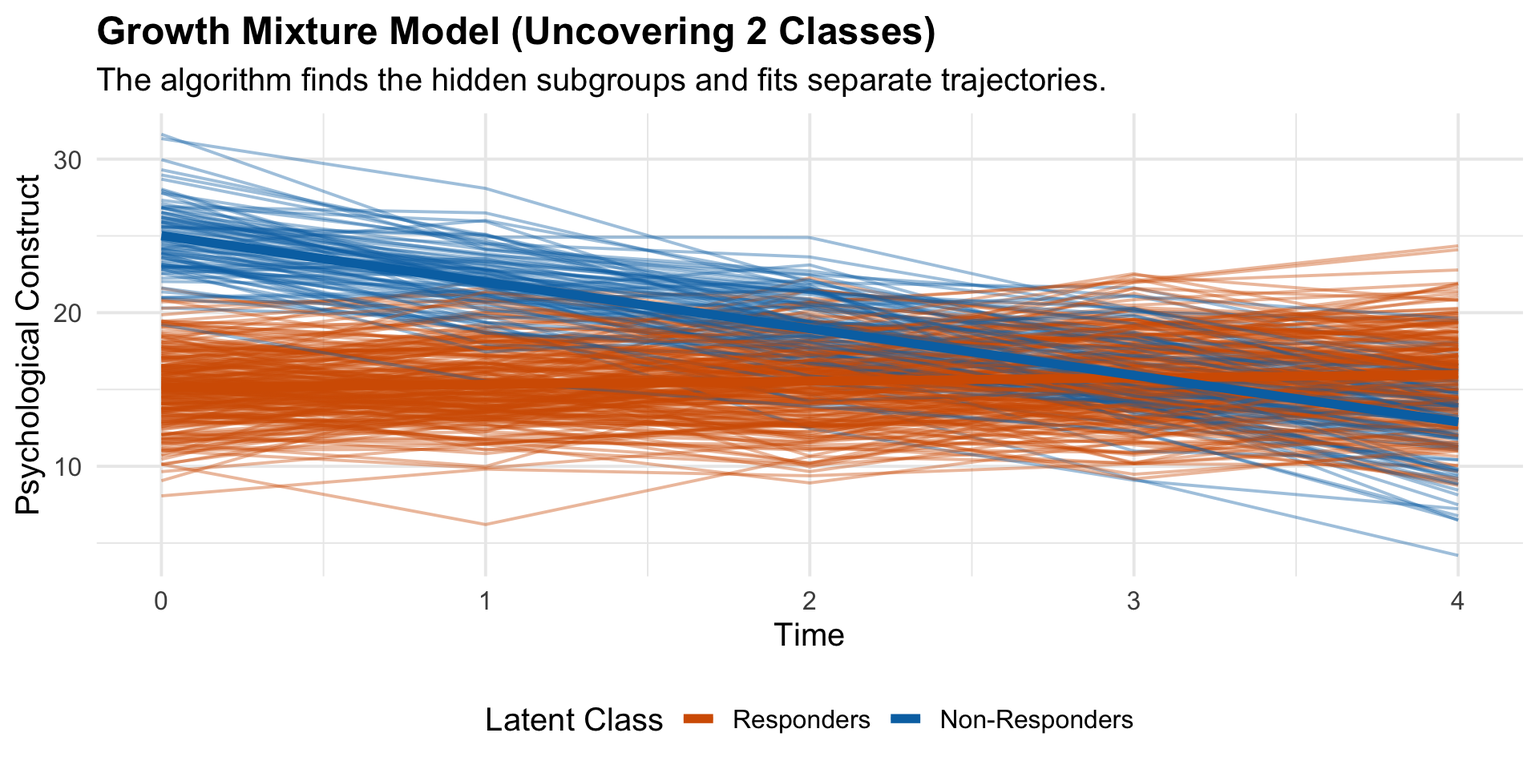
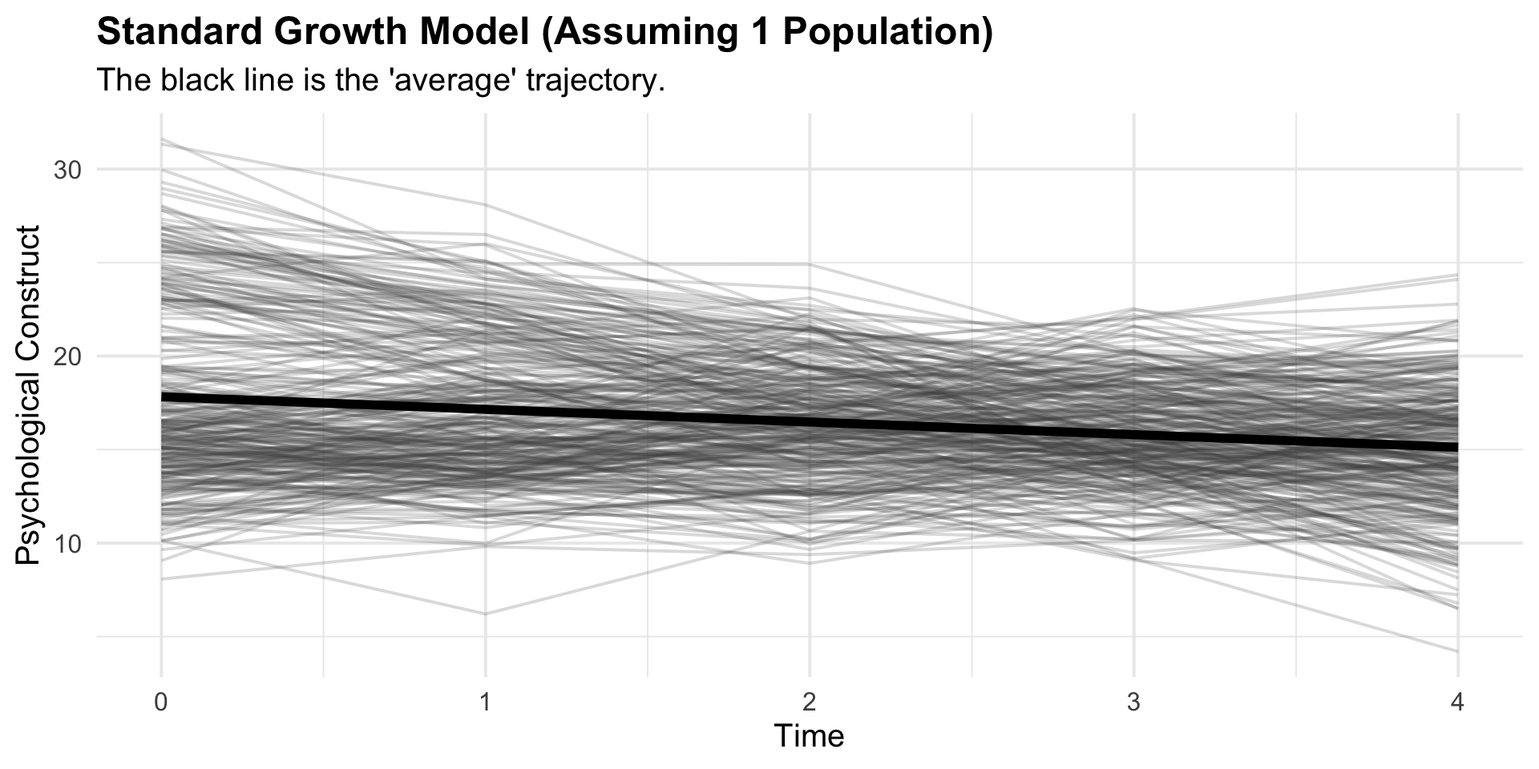
updates

diff --git a/_site/gmm.html b/_site/gmm.html
@@ -415,7 +415,7 @@
 <ul>
 <li><p>There is a parallel to this in how we reduce large amounts of data to more manageable numbers.</p></li>
 <li><p>Low-d representations help us in terms of fewer parameters, better story telling, less computational problems.</p></li>
-<li><p>many variables –&gt; small number of variables.</p></li>
+<li><p>many variables –&gt; small number of variables via unsupervised learning.</p></li>
 <li><p>Continuous approaches: FA, PCA, CFA, t-SNE, UMAP, ICA, MDS,</p></li>
 </ul>
 </section>
@@ -448,6 +448,62 @@
 <p>Latent Class Analysis (LCA): A mixture model where the observed variables are categorical/binary at a single point in time.</p>
 <p>Latent Profile Analysis (LPA): A mixture model where the observed variables are continuous at a single point in time.</p>
 </section>
+<section id="mixtures" class="slide level2">
+<h2>Mixtures</h2>
+<ul>
+<li>Often the DGP of our data are complex in that there could be multiple reasons someone responds the way they do. Mixture models allows us to fit more than one DGP at a time</li>
+</ul>
+<p><span class="math display">\[Y \sim \textrm{NB}(\mu,\phi)\]</span> <span class="math display">\[y_i  \sim \operatorname{ZIPoisson} (p_i, \lambda_i)\]</span></p>
+</section>
+<section id="mixture-equation" class="slide level2">
+<h2>Mixture equation</h2>
+<p><span class="math display">\[y_i \sim \operatorname{GMM}(\boldsymbol{\pi}_i, \boldsymbol{\mu}_, \boldsymbol{\sigma}^2)\]</span></p>
+<p><span class="math display">\[y_i \sim \sum_{k=1}^K \pi_{ik} \mathcal{N}(\mu_{k}, \sigma_{k}^2)\]</span></p>
+<ul>
+<li><span class="math inline">\(K\)</span>: The total number of latent classes, <span class="math inline">\(\pi_{ik}\)</span>: The probability that individual <span class="math inline">\(i\)</span> belongs to class <span class="math inline">\(k\)</span>. <span class="math inline">\(\mathcal{N}\)</span>: The Normal (Gaussian) distribution.</li>
+</ul>
+</section>
+<section class="slide level2">
+
+<div class="cell">
+<details>
+<summary>Code</summary>
+<div class="sourceCode cell-code" id="cb1"><pre class="sourceCode numberSource r number-lines code-with-copy"><code class="sourceCode r"><span id="cb1-1"><a href="#cb1-1"></a><span class="fu">library</span>(ggplot2)</span>
+<span id="cb1-2"><a href="#cb1-2"></a><span class="fu">library</span>(patchwork) </span>
+<span id="cb1-3"><a href="#cb1-3"></a></span>
+<span id="cb1-4"><a href="#cb1-4"></a><span class="fu">set.seed</span>(<span class="dv">74</span>) </span>
+<span id="cb1-5"><a href="#cb1-5"></a>n_pop_A <span class="ot">&lt;-</span> <span class="dv">500</span></span>
+<span id="cb1-6"><a href="#cb1-6"></a>n_pop_B <span class="ot">&lt;-</span> <span class="dv">500</span></span>
+<span id="cb1-7"><a href="#cb1-7"></a>scores_A <span class="ot">&lt;-</span> <span class="fu">rnorm</span>(n_pop_A, <span class="at">mean =</span> <span class="dv">40</span>, <span class="at">sd =</span> <span class="dv">5</span>)</span>
+<span id="cb1-8"><a href="#cb1-8"></a>scores_B <span class="ot">&lt;-</span> <span class="fu">rnorm</span>(n_pop_B, <span class="at">mean =</span> <span class="dv">55</span>, <span class="at">sd =</span> <span class="dv">10</span>)</span>
+<span id="cb1-9"><a href="#cb1-9"></a></span>
+<span id="cb1-10"><a href="#cb1-10"></a>df <span class="ot">&lt;-</span> <span class="fu">data.frame</span>(</span>
+<span id="cb1-11"><a href="#cb1-11"></a>  <span class="at">Variable =</span> <span class="fu">c</span>(scores_A, scores_B),</span>
+<span id="cb1-12"><a href="#cb1-12"></a>  <span class="at">Population =</span> <span class="fu">factor</span>(<span class="fu">rep</span>(<span class="fu">c</span>(<span class="st">"Population A"</span>, <span class="st">"Population B"</span>), <span class="fu">c</span>(n_pop_A, n_pop_B)))</span>
+<span id="cb1-13"><a href="#cb1-13"></a>)</span>
+<span id="cb1-14"><a href="#cb1-14"></a></span>
+<span id="cb1-15"><a href="#cb1-15"></a>plot_combined <span class="ot">&lt;-</span> <span class="fu">ggplot</span>(df, <span class="fu">aes</span>(<span class="at">x =</span> Variable)) <span class="sc">+</span></span>
+<span id="cb1-16"><a href="#cb1-16"></a>  <span class="fu">geom_density</span>(<span class="at">fill =</span> <span class="st">"gray60"</span>, <span class="at">alpha =</span> <span class="fl">0.6</span>, <span class="at">color =</span> <span class="st">"gray30"</span>) <span class="sc">+</span></span>
+<span id="cb1-17"><a href="#cb1-17"></a>  <span class="fu">theme_minimal</span>(<span class="at">base_size =</span> <span class="dv">14</span>) <span class="sc">+</span></span>
+<span id="cb1-18"><a href="#cb1-18"></a>  <span class="fu">labs</span>(<span class="at">title =</span> <span class="st">"Combined"</span>,</span>
+<span id="cb1-19"><a href="#cb1-19"></a>       <span class="at">x =</span> <span class="st">"X"</span>,</span>
+<span id="cb1-20"><a href="#cb1-20"></a>       <span class="at">y =</span> <span class="st">"Density"</span>)</span>
+<span id="cb1-21"><a href="#cb1-21"></a></span>
+<span id="cb1-22"><a href="#cb1-22"></a>plot_sep <span class="ot">&lt;-</span> <span class="fu">ggplot</span>(df, <span class="fu">aes</span>(<span class="at">x =</span> Variable, <span class="at">fill =</span> Population)) <span class="sc">+</span></span>
+<span id="cb1-23"><a href="#cb1-23"></a>  <span class="fu">geom_density</span>(<span class="at">alpha =</span> <span class="fl">0.6</span>, <span class="at">color =</span> <span class="st">"black"</span>) <span class="sc">+</span></span>
+<span id="cb1-24"><a href="#cb1-24"></a>  <span class="fu">scale_fill_manual</span>(<span class="at">values =</span> <span class="fu">c</span>(<span class="st">"#0072B2"</span>, <span class="st">"#D55E00"</span>)) <span class="sc">+</span> </span>
+<span id="cb1-25"><a href="#cb1-25"></a>  <span class="fu">theme_minimal</span>(<span class="at">base_size =</span> <span class="dv">14</span>) <span class="sc">+</span></span>
+<span id="cb1-26"><a href="#cb1-26"></a>  <span class="fu">labs</span>(<span class="at">title =</span> <span class="st">"2 Population Mixture"</span>,</span>
+<span id="cb1-27"><a href="#cb1-27"></a>       <span class="at">x =</span> <span class="st">"X"</span>,</span>
+<span id="cb1-28"><a href="#cb1-28"></a>       <span class="at">y =</span> <span class="st">"Density"</span>) <span class="sc">+</span></span>
+<span id="cb1-29"><a href="#cb1-29"></a>  <span class="fu">theme</span>(<span class="at">legend.position =</span> <span class="fu">c</span>(<span class="fl">0.85</span>, <span class="fl">0.85</span>), </span>
+<span id="cb1-30"><a href="#cb1-30"></a>        <span class="at">legend.background =</span> <span class="fu">element_rect</span>(<span class="at">fill =</span> <span class="st">"white"</span>, <span class="at">color =</span> <span class="cn">NA</span>))</span>
+<span id="cb1-31"><a href="#cb1-31"></a></span>
+<span id="cb1-32"><a href="#cb1-32"></a>plot_combined <span class="sc">/</span> plot_sep</span></code><button title="Copy to Clipboard" class="code-copy-button"><i class="bi"></i></button></pre></div>
+</details>
+
+</div>
+<img data-src="gmm_files/figure-revealjs/unnamed-chunk-1-1.png" width="960" class="r-stretch"></section>
 <section id="lpa" class="slide level2">
 <h2>LPA</h2>
 <ul>
@@ -505,82 +561,82 @@
 <div class="cell">
 <details>
 <summary>Code</summary>
-<div class="sourceCode cell-code" id="cb1"><pre class="sourceCode numberSource r number-lines code-with-copy"><code class="sourceCode r"><span id="cb1-1"><a href="#cb1-1"></a><span class="fu">library</span>(dplyr)</span>
-<span id="cb1-2"><a href="#cb1-2"></a><span class="fu">library</span>(tidyr)</span>
-<span id="cb1-3"><a href="#cb1-3"></a><span class="fu">library</span>(ggplot2)</span>
-<span id="cb1-4"><a href="#cb1-4"></a><span class="fu">library</span>(lcmm) </span>
-<span id="cb1-5"><a href="#cb1-5"></a></span>
-<span id="cb1-6"><a href="#cb1-6"></a><span class="fu">set.seed</span>(<span class="dv">2026</span>)</span>
-<span id="cb1-7"><a href="#cb1-7"></a></span>
-<span id="cb1-8"><a href="#cb1-8"></a><span class="co"># 1. Simulate the Data</span></span>
-<span id="cb1-9"><a href="#cb1-9"></a>N <span class="ot">&lt;-</span> <span class="dv">300</span></span>
-<span id="cb1-10"><a href="#cb1-10"></a>time_points <span class="ot">&lt;-</span> <span class="dv">0</span><span class="sc">:</span><span class="dv">4</span></span>
-<span id="cb1-11"><a href="#cb1-11"></a></span>
-<span id="cb1-12"><a href="#cb1-12"></a><span class="co"># Create the latent classes</span></span>
-<span id="cb1-13"><a href="#cb1-13"></a>class_assignment <span class="ot">&lt;-</span> <span class="fu">sample</span>(<span class="dv">1</span><span class="sc">:</span><span class="dv">2</span>, N, <span class="at">replace =</span> <span class="cn">TRUE</span>, <span class="at">prob =</span> <span class="fu">c</span>(<span class="fl">0.3</span>, <span class="fl">0.7</span>))</span>
-<span id="cb1-14"><a href="#cb1-14"></a></span>
-<span id="cb1-15"><a href="#cb1-15"></a><span class="co"># Initialize an empty data frame</span></span>
-<span id="cb1-16"><a href="#cb1-16"></a>df <span class="ot">&lt;-</span> <span class="fu">data.frame</span>()</span>
-<span id="cb1-17"><a href="#cb1-17"></a></span>
-<span id="cb1-18"><a href="#cb1-18"></a><span class="cf">for</span>(i <span class="cf">in</span> <span class="dv">1</span><span class="sc">:</span>N) {</span>
-<span id="cb1-19"><a href="#cb1-19"></a>  <span class="co"># Assign Intercept and Slope based on hidden class</span></span>
-<span id="cb1-20"><a href="#cb1-20"></a>  <span class="cf">if</span>(class_assignment[i] <span class="sc">==</span> <span class="dv">1</span>) {</span>
-<span id="cb1-21"><a href="#cb1-21"></a>    true_int <span class="ot">&lt;-</span> <span class="fu">rnorm</span>(<span class="dv">1</span>, <span class="at">mean =</span> <span class="dv">25</span>, <span class="at">sd =</span> <span class="dv">2</span>)   <span class="co"># Class 1: Starts high</span></span>
-<span id="cb1-22"><a href="#cb1-22"></a>    true_slope <span class="ot">&lt;-</span> <span class="fu">rnorm</span>(<span class="dv">1</span>, <span class="at">mean =</span> <span class="sc">-</span><span class="dv">3</span>, <span class="at">sd =</span> <span class="fl">0.5</span>) <span class="co"># Class 1: Declines rapidly</span></span>
-<span id="cb1-23"><a href="#cb1-23"></a>  } <span class="cf">else</span> {</span>
-<span id="cb1-24"><a href="#cb1-24"></a>    true_int <span class="ot">&lt;-</span> <span class="fu">rnorm</span>(<span class="dv">1</span>, <span class="at">mean =</span> <span class="dv">15</span>, <span class="at">sd =</span> <span class="dv">2</span>)   <span class="co"># Class 2: Starts lower</span></span>
-<span id="cb1-25"><a href="#cb1-25"></a>    true_slope <span class="ot">&lt;-</span> <span class="fu">rnorm</span>(<span class="dv">1</span>, <span class="at">mean =</span> <span class="fl">0.2</span>, <span class="at">sd =</span> <span class="fl">0.5</span>) <span class="co"># Class 2: Stays flat</span></span>
-<span id="cb1-26"><a href="#cb1-26"></a>  }</span>
-<span id="cb1-27"><a href="#cb1-27"></a>  </span>
-<span id="cb1-28"><a href="#cb1-28"></a></span>
-<span id="cb1-29"><a href="#cb1-29"></a>  scores <span class="ot">&lt;-</span> true_int <span class="sc">+</span> (true_slope <span class="sc">*</span> time_points) <span class="sc">+</span> <span class="fu">rnorm</span>(<span class="dv">5</span>, <span class="dv">0</span>, <span class="fl">1.5</span>)</span>
-<span id="cb1-30"><a href="#cb1-30"></a>  </span>
-<span id="cb1-31"><a href="#cb1-31"></a>  temp_df <span class="ot">&lt;-</span> <span class="fu">data.frame</span>(</span>
-<span id="cb1-32"><a href="#cb1-32"></a>    <span class="at">ID =</span> i,</span>
-<span id="cb1-33"><a href="#cb1-33"></a>    <span class="at">True_Class =</span> <span class="fu">factor</span>(class_assignment[i]),</span>
-<span id="cb1-34"><a href="#cb1-34"></a>    <span class="at">Time =</span> time_points,</span>
-<span id="cb1-35"><a href="#cb1-35"></a>    <span class="at">Score =</span> scores</span>
-<span id="cb1-36"><a href="#cb1-36"></a>  )</span>
-<span id="cb1-37"><a href="#cb1-37"></a>  df <span class="ot">&lt;-</span> <span class="fu">rbind</span>(df, temp_df)</span>
-<span id="cb1-38"><a href="#cb1-38"></a>}</span>
-<span id="cb1-39"><a href="#cb1-39"></a></span>
-<span id="cb1-40"><a href="#cb1-40"></a></span>
-<span id="cb1-41"><a href="#cb1-41"></a>p1 <span class="ot">&lt;-</span> <span class="fu">ggplot</span>(df, <span class="fu">aes</span>(<span class="at">x =</span> Time, <span class="at">y =</span> Score, <span class="at">group =</span> ID)) <span class="sc">+</span></span>
-<span id="cb1-42"><a href="#cb1-42"></a>  <span class="fu">geom_line</span>(<span class="at">alpha =</span> <span class="fl">0.2</span>, <span class="at">color =</span> <span class="st">"gray30"</span>) <span class="sc">+</span></span>
-<span id="cb1-43"><a href="#cb1-43"></a>  <span class="fu">geom_smooth</span>(<span class="fu">aes</span>(<span class="at">group =</span> <span class="dv">1</span>), <span class="at">method =</span> <span class="st">"lm"</span>, <span class="at">color =</span> <span class="st">"black"</span>, <span class="at">size =</span> <span class="dv">2</span>, <span class="at">se =</span> <span class="cn">FALSE</span>) <span class="sc">+</span></span>
-<span id="cb1-44"><a href="#cb1-44"></a>  <span class="fu">theme_minimal</span>(<span class="at">base_size =</span> <span class="dv">15</span>) <span class="sc">+</span></span>
-<span id="cb1-45"><a href="#cb1-45"></a>  <span class="fu">labs</span>(<span class="at">title =</span> <span class="st">"Standard Growth Model (Assuming 1 Population)"</span>,</span>
-<span id="cb1-46"><a href="#cb1-46"></a>       <span class="at">subtitle =</span> <span class="st">"The black line is the 'average' trajectory."</span>,</span>
-<span id="cb1-47"><a href="#cb1-47"></a>       <span class="at">y =</span> <span class="st">"Psychological Construct"</span>) <span class="sc">+</span></span>
-<span id="cb1-48"><a href="#cb1-48"></a>  <span class="fu">theme</span>(<span class="at">plot.title =</span> <span class="fu">element_text</span>(<span class="at">face =</span> <span class="st">"bold"</span>))</span>
-<span id="cb1-49"><a href="#cb1-49"></a></span>
-<span id="cb1-50"><a href="#cb1-50"></a><span class="fu">print</span>(p1) </span></code><button title="Copy to Clipboard" class="code-copy-button"><i class="bi"></i></button></pre></div>
+<div class="sourceCode cell-code" id="cb2"><pre class="sourceCode numberSource r number-lines code-with-copy"><code class="sourceCode r"><span id="cb2-1"><a href="#cb2-1"></a><span class="fu">library</span>(dplyr)</span>
+<span id="cb2-2"><a href="#cb2-2"></a><span class="fu">library</span>(tidyr)</span>
+<span id="cb2-3"><a href="#cb2-3"></a><span class="fu">library</span>(ggplot2)</span>
+<span id="cb2-4"><a href="#cb2-4"></a><span class="fu">library</span>(lcmm) </span>
+<span id="cb2-5"><a href="#cb2-5"></a></span>
+<span id="cb2-6"><a href="#cb2-6"></a><span class="fu">set.seed</span>(<span class="dv">2026</span>)</span>
+<span id="cb2-7"><a href="#cb2-7"></a></span>
+<span id="cb2-8"><a href="#cb2-8"></a><span class="co"># 1. Simulate the Data</span></span>
+<span id="cb2-9"><a href="#cb2-9"></a>N <span class="ot">&lt;-</span> <span class="dv">300</span></span>
+<span id="cb2-10"><a href="#cb2-10"></a>time_points <span class="ot">&lt;-</span> <span class="dv">0</span><span class="sc">:</span><span class="dv">4</span></span>
+<span id="cb2-11"><a href="#cb2-11"></a></span>
+<span id="cb2-12"><a href="#cb2-12"></a><span class="co"># Create the latent classes</span></span>
+<span id="cb2-13"><a href="#cb2-13"></a>class_assignment <span class="ot">&lt;-</span> <span class="fu">sample</span>(<span class="dv">1</span><span class="sc">:</span><span class="dv">2</span>, N, <span class="at">replace =</span> <span class="cn">TRUE</span>, <span class="at">prob =</span> <span class="fu">c</span>(<span class="fl">0.3</span>, <span class="fl">0.7</span>))</span>
+<span id="cb2-14"><a href="#cb2-14"></a></span>
+<span id="cb2-15"><a href="#cb2-15"></a><span class="co"># Initialize an empty data frame</span></span>
+<span id="cb2-16"><a href="#cb2-16"></a>df <span class="ot">&lt;-</span> <span class="fu">data.frame</span>()</span>
+<span id="cb2-17"><a href="#cb2-17"></a></span>
+<span id="cb2-18"><a href="#cb2-18"></a><span class="cf">for</span>(i <span class="cf">in</span> <span class="dv">1</span><span class="sc">:</span>N) {</span>
+<span id="cb2-19"><a href="#cb2-19"></a>  <span class="co"># Assign Intercept and Slope based on hidden class</span></span>
+<span id="cb2-20"><a href="#cb2-20"></a>  <span class="cf">if</span>(class_assignment[i] <span class="sc">==</span> <span class="dv">1</span>) {</span>
+<span id="cb2-21"><a href="#cb2-21"></a>    true_int <span class="ot">&lt;-</span> <span class="fu">rnorm</span>(<span class="dv">1</span>, <span class="at">mean =</span> <span class="dv">25</span>, <span class="at">sd =</span> <span class="dv">2</span>)   <span class="co"># Class 1: Starts high</span></span>
+<span id="cb2-22"><a href="#cb2-22"></a>    true_slope <span class="ot">&lt;-</span> <span class="fu">rnorm</span>(<span class="dv">1</span>, <span class="at">mean =</span> <span class="sc">-</span><span class="dv">3</span>, <span class="at">sd =</span> <span class="fl">0.5</span>) <span class="co"># Class 1: Declines rapidly</span></span>
+<span id="cb2-23"><a href="#cb2-23"></a>  } <span class="cf">else</span> {</span>
+<span id="cb2-24"><a href="#cb2-24"></a>    true_int <span class="ot">&lt;-</span> <span class="fu">rnorm</span>(<span class="dv">1</span>, <span class="at">mean =</span> <span class="dv">15</span>, <span class="at">sd =</span> <span class="dv">2</span>)   <span class="co"># Class 2: Starts lower</span></span>
+<span id="cb2-25"><a href="#cb2-25"></a>    true_slope <span class="ot">&lt;-</span> <span class="fu">rnorm</span>(<span class="dv">1</span>, <span class="at">mean =</span> <span class="fl">0.2</span>, <span class="at">sd =</span> <span class="fl">0.5</span>) <span class="co"># Class 2: Stays flat</span></span>
+<span id="cb2-26"><a href="#cb2-26"></a>  }</span>
+<span id="cb2-27"><a href="#cb2-27"></a>  </span>
+<span id="cb2-28"><a href="#cb2-28"></a></span>
+<span id="cb2-29"><a href="#cb2-29"></a>  scores <span class="ot">&lt;-</span> true_int <span class="sc">+</span> (true_slope <span class="sc">*</span> time_points) <span class="sc">+</span> <span class="fu">rnorm</span>(<span class="dv">5</span>, <span class="dv">0</span>, <span class="fl">1.5</span>)</span>
+<span id="cb2-30"><a href="#cb2-30"></a>  </span>
+<span id="cb2-31"><a href="#cb2-31"></a>  temp_df <span class="ot">&lt;-</span> <span class="fu">data.frame</span>(</span>
+<span id="cb2-32"><a href="#cb2-32"></a>    <span class="at">ID =</span> i,</span>
+<span id="cb2-33"><a href="#cb2-33"></a>    <span class="at">True_Class =</span> <span class="fu">factor</span>(class_assignment[i]),</span>
+<span id="cb2-34"><a href="#cb2-34"></a>    <span class="at">Time =</span> time_points,</span>
+<span id="cb2-35"><a href="#cb2-35"></a>    <span class="at">Score =</span> scores</span>
+<span id="cb2-36"><a href="#cb2-36"></a>  )</span>
+<span id="cb2-37"><a href="#cb2-37"></a>  df <span class="ot">&lt;-</span> <span class="fu">rbind</span>(df, temp_df)</span>
+<span id="cb2-38"><a href="#cb2-38"></a>}</span>
+<span id="cb2-39"><a href="#cb2-39"></a></span>
+<span id="cb2-40"><a href="#cb2-40"></a></span>
+<span id="cb2-41"><a href="#cb2-41"></a>p1 <span class="ot">&lt;-</span> <span class="fu">ggplot</span>(df, <span class="fu">aes</span>(<span class="at">x =</span> Time, <span class="at">y =</span> Score, <span class="at">group =</span> ID)) <span class="sc">+</span></span>
+<span id="cb2-42"><a href="#cb2-42"></a>  <span class="fu">geom_line</span>(<span class="at">alpha =</span> <span class="fl">0.2</span>, <span class="at">color =</span> <span class="st">"gray30"</span>) <span class="sc">+</span></span>
+<span id="cb2-43"><a href="#cb2-43"></a>  <span class="fu">geom_smooth</span>(<span class="fu">aes</span>(<span class="at">group =</span> <span class="dv">1</span>), <span class="at">method =</span> <span class="st">"lm"</span>, <span class="at">color =</span> <span class="st">"black"</span>, <span class="at">size =</span> <span class="dv">2</span>, <span class="at">se =</span> <span class="cn">FALSE</span>) <span class="sc">+</span></span>
+<span id="cb2-44"><a href="#cb2-44"></a>  <span class="fu">theme_minimal</span>(<span class="at">base_size =</span> <span class="dv">15</span>) <span class="sc">+</span></span>
+<span id="cb2-45"><a href="#cb2-45"></a>  <span class="fu">labs</span>(<span class="at">title =</span> <span class="st">"Standard Growth Model (Assuming 1 Population)"</span>,</span>
+<span id="cb2-46"><a href="#cb2-46"></a>       <span class="at">subtitle =</span> <span class="st">"The black line is the 'average' trajectory."</span>,</span>
+<span id="cb2-47"><a href="#cb2-47"></a>       <span class="at">y =</span> <span class="st">"Psychological Construct"</span>) <span class="sc">+</span></span>
+<span id="cb2-48"><a href="#cb2-48"></a>  <span class="fu">theme</span>(<span class="at">plot.title =</span> <span class="fu">element_text</span>(<span class="at">face =</span> <span class="st">"bold"</span>))</span>
+<span id="cb2-49"><a href="#cb2-49"></a></span>
+<span id="cb2-50"><a href="#cb2-50"></a><span class="fu">print</span>(p1) </span></code><button title="Copy to Clipboard" class="code-copy-button"><i class="bi"></i></button></pre></div>
 </details>
 
 </div>
-<img data-src="gmm_files/figure-revealjs/unnamed-chunk-1-1.png" width="960" class="r-stretch"></section>
+<img data-src="gmm_files/figure-revealjs/unnamed-chunk-2-1.png" width="960" class="r-stretch"></section>
 <section class="slide level2">
 
 <div class="cell">
 <details>
 <summary>Code</summary>
-<div class="sourceCode cell-code" id="cb2"><pre class="sourceCode numberSource r number-lines code-with-copy"><code class="sourceCode r"><span id="cb2-1"><a href="#cb2-1"></a>p2 <span class="ot">&lt;-</span> <span class="fu">ggplot</span>(df, <span class="fu">aes</span>(<span class="at">x =</span> Time, <span class="at">y =</span> Score, <span class="at">group =</span> ID, <span class="at">color =</span> True_Class)) <span class="sc">+</span></span>
-<span id="cb2-2"><a href="#cb2-2"></a>  <span class="fu">geom_line</span>(<span class="at">alpha =</span> <span class="fl">0.4</span>) <span class="sc">+</span></span>
-<span id="cb2-3"><a href="#cb2-3"></a>  <span class="fu">geom_smooth</span>(<span class="fu">aes</span>(<span class="at">group =</span> True_Class), <span class="at">method =</span> <span class="st">"lm"</span>, <span class="at">size =</span> <span class="dv">2</span>, <span class="at">se =</span> <span class="cn">FALSE</span>) <span class="sc">+</span></span>
-<span id="cb2-4"><a href="#cb2-4"></a>  <span class="fu">scale_color_manual</span>(<span class="at">values =</span> <span class="fu">c</span>(<span class="st">"#D55E00"</span>, <span class="st">"#0072B2"</span>), <span class="at">labels =</span> <span class="fu">c</span>(<span class="st">"Responders"</span>, <span class="st">"Non-Responders"</span>)) <span class="sc">+</span></span>
-<span id="cb2-5"><a href="#cb2-5"></a>  <span class="fu">theme_minimal</span>(<span class="at">base_size =</span> <span class="dv">15</span>) <span class="sc">+</span></span>
-<span id="cb2-6"><a href="#cb2-6"></a>  <span class="fu">labs</span>(<span class="at">title =</span> <span class="st">"Growth Mixture Model (Uncovering 2 Classes)"</span>,</span>
-<span id="cb2-7"><a href="#cb2-7"></a>       <span class="at">subtitle =</span> <span class="st">"The algorithm finds the hidden subgroups and fits separate trajectories."</span>,</span>
-<span id="cb2-8"><a href="#cb2-8"></a>       <span class="at">y =</span> <span class="st">"Psychological Construct"</span>,</span>
-<span id="cb2-9"><a href="#cb2-9"></a>       <span class="at">color =</span> <span class="st">"Latent Class"</span>) <span class="sc">+</span></span>
-<span id="cb2-10"><a href="#cb2-10"></a>  <span class="fu">theme</span>(<span class="at">plot.title =</span> <span class="fu">element_text</span>(<span class="at">face =</span> <span class="st">"bold"</span>),</span>
-<span id="cb2-11"><a href="#cb2-11"></a>        <span class="at">legend.position =</span> <span class="st">"bottom"</span>)</span>
-<span id="cb2-12"><a href="#cb2-12"></a></span>
-<span id="cb2-13"><a href="#cb2-13"></a><span class="fu">print</span>(p2)</span></code><button title="Copy to Clipboard" class="code-copy-button"><i class="bi"></i></button></pre></div>
+<div class="sourceCode cell-code" id="cb3"><pre class="sourceCode numberSource r number-lines code-with-copy"><code class="sourceCode r"><span id="cb3-1"><a href="#cb3-1"></a>p2 <span class="ot">&lt;-</span> <span class="fu">ggplot</span>(df, <span class="fu">aes</span>(<span class="at">x =</span> Time, <span class="at">y =</span> Score, <span class="at">group =</span> ID, <span class="at">color =</span> True_Class)) <span class="sc">+</span></span>
+<span id="cb3-2"><a href="#cb3-2"></a>  <span class="fu">geom_line</span>(<span class="at">alpha =</span> <span class="fl">0.4</span>) <span class="sc">+</span></span>
+<span id="cb3-3"><a href="#cb3-3"></a>  <span class="fu">geom_smooth</span>(<span class="fu">aes</span>(<span class="at">group =</span> True_Class), <span class="at">method =</span> <span class="st">"lm"</span>, <span class="at">size =</span> <span class="dv">2</span>, <span class="at">se =</span> <span class="cn">FALSE</span>) <span class="sc">+</span></span>
+<span id="cb3-4"><a href="#cb3-4"></a>  <span class="fu">scale_color_manual</span>(<span class="at">values =</span> <span class="fu">c</span>(<span class="st">"#D55E00"</span>, <span class="st">"#0072B2"</span>), <span class="at">labels =</span> <span class="fu">c</span>(<span class="st">"Responders"</span>, <span class="st">"Non-Responders"</span>)) <span class="sc">+</span></span>
+<span id="cb3-5"><a href="#cb3-5"></a>  <span class="fu">theme_minimal</span>(<span class="at">base_size =</span> <span class="dv">15</span>) <span class="sc">+</span></span>
+<span id="cb3-6"><a href="#cb3-6"></a>  <span class="fu">labs</span>(<span class="at">title =</span> <span class="st">"Growth Mixture Model (Uncovering 2 Classes)"</span>,</span>
+<span id="cb3-7"><a href="#cb3-7"></a>       <span class="at">subtitle =</span> <span class="st">"The algorithm finds the hidden subgroups and fits separate trajectories."</span>,</span>
+<span id="cb3-8"><a href="#cb3-8"></a>       <span class="at">y =</span> <span class="st">"Psychological Construct"</span>,</span>
+<span id="cb3-9"><a href="#cb3-9"></a>       <span class="at">color =</span> <span class="st">"Latent Class"</span>) <span class="sc">+</span></span>
+<span id="cb3-10"><a href="#cb3-10"></a>  <span class="fu">theme</span>(<span class="at">plot.title =</span> <span class="fu">element_text</span>(<span class="at">face =</span> <span class="st">"bold"</span>),</span>
+<span id="cb3-11"><a href="#cb3-11"></a>        <span class="at">legend.position =</span> <span class="st">"bottom"</span>)</span>
+<span id="cb3-12"><a href="#cb3-12"></a></span>
+<span id="cb3-13"><a href="#cb3-13"></a><span class="fu">print</span>(p2)</span></code><button title="Copy to Clipboard" class="code-copy-button"><i class="bi"></i></button></pre></div>
 </details>
 
 </div>
-<img data-src="gmm_files/figure-revealjs/unnamed-chunk-2-1.png" width="960" class="r-stretch"></section>
+<img data-src="gmm_files/figure-revealjs/unnamed-chunk-3-1.png" width="960" class="r-stretch"></section>
 <section id="visualization" class="slide level2">
 <h2>Visualization</h2>
 <ul>
